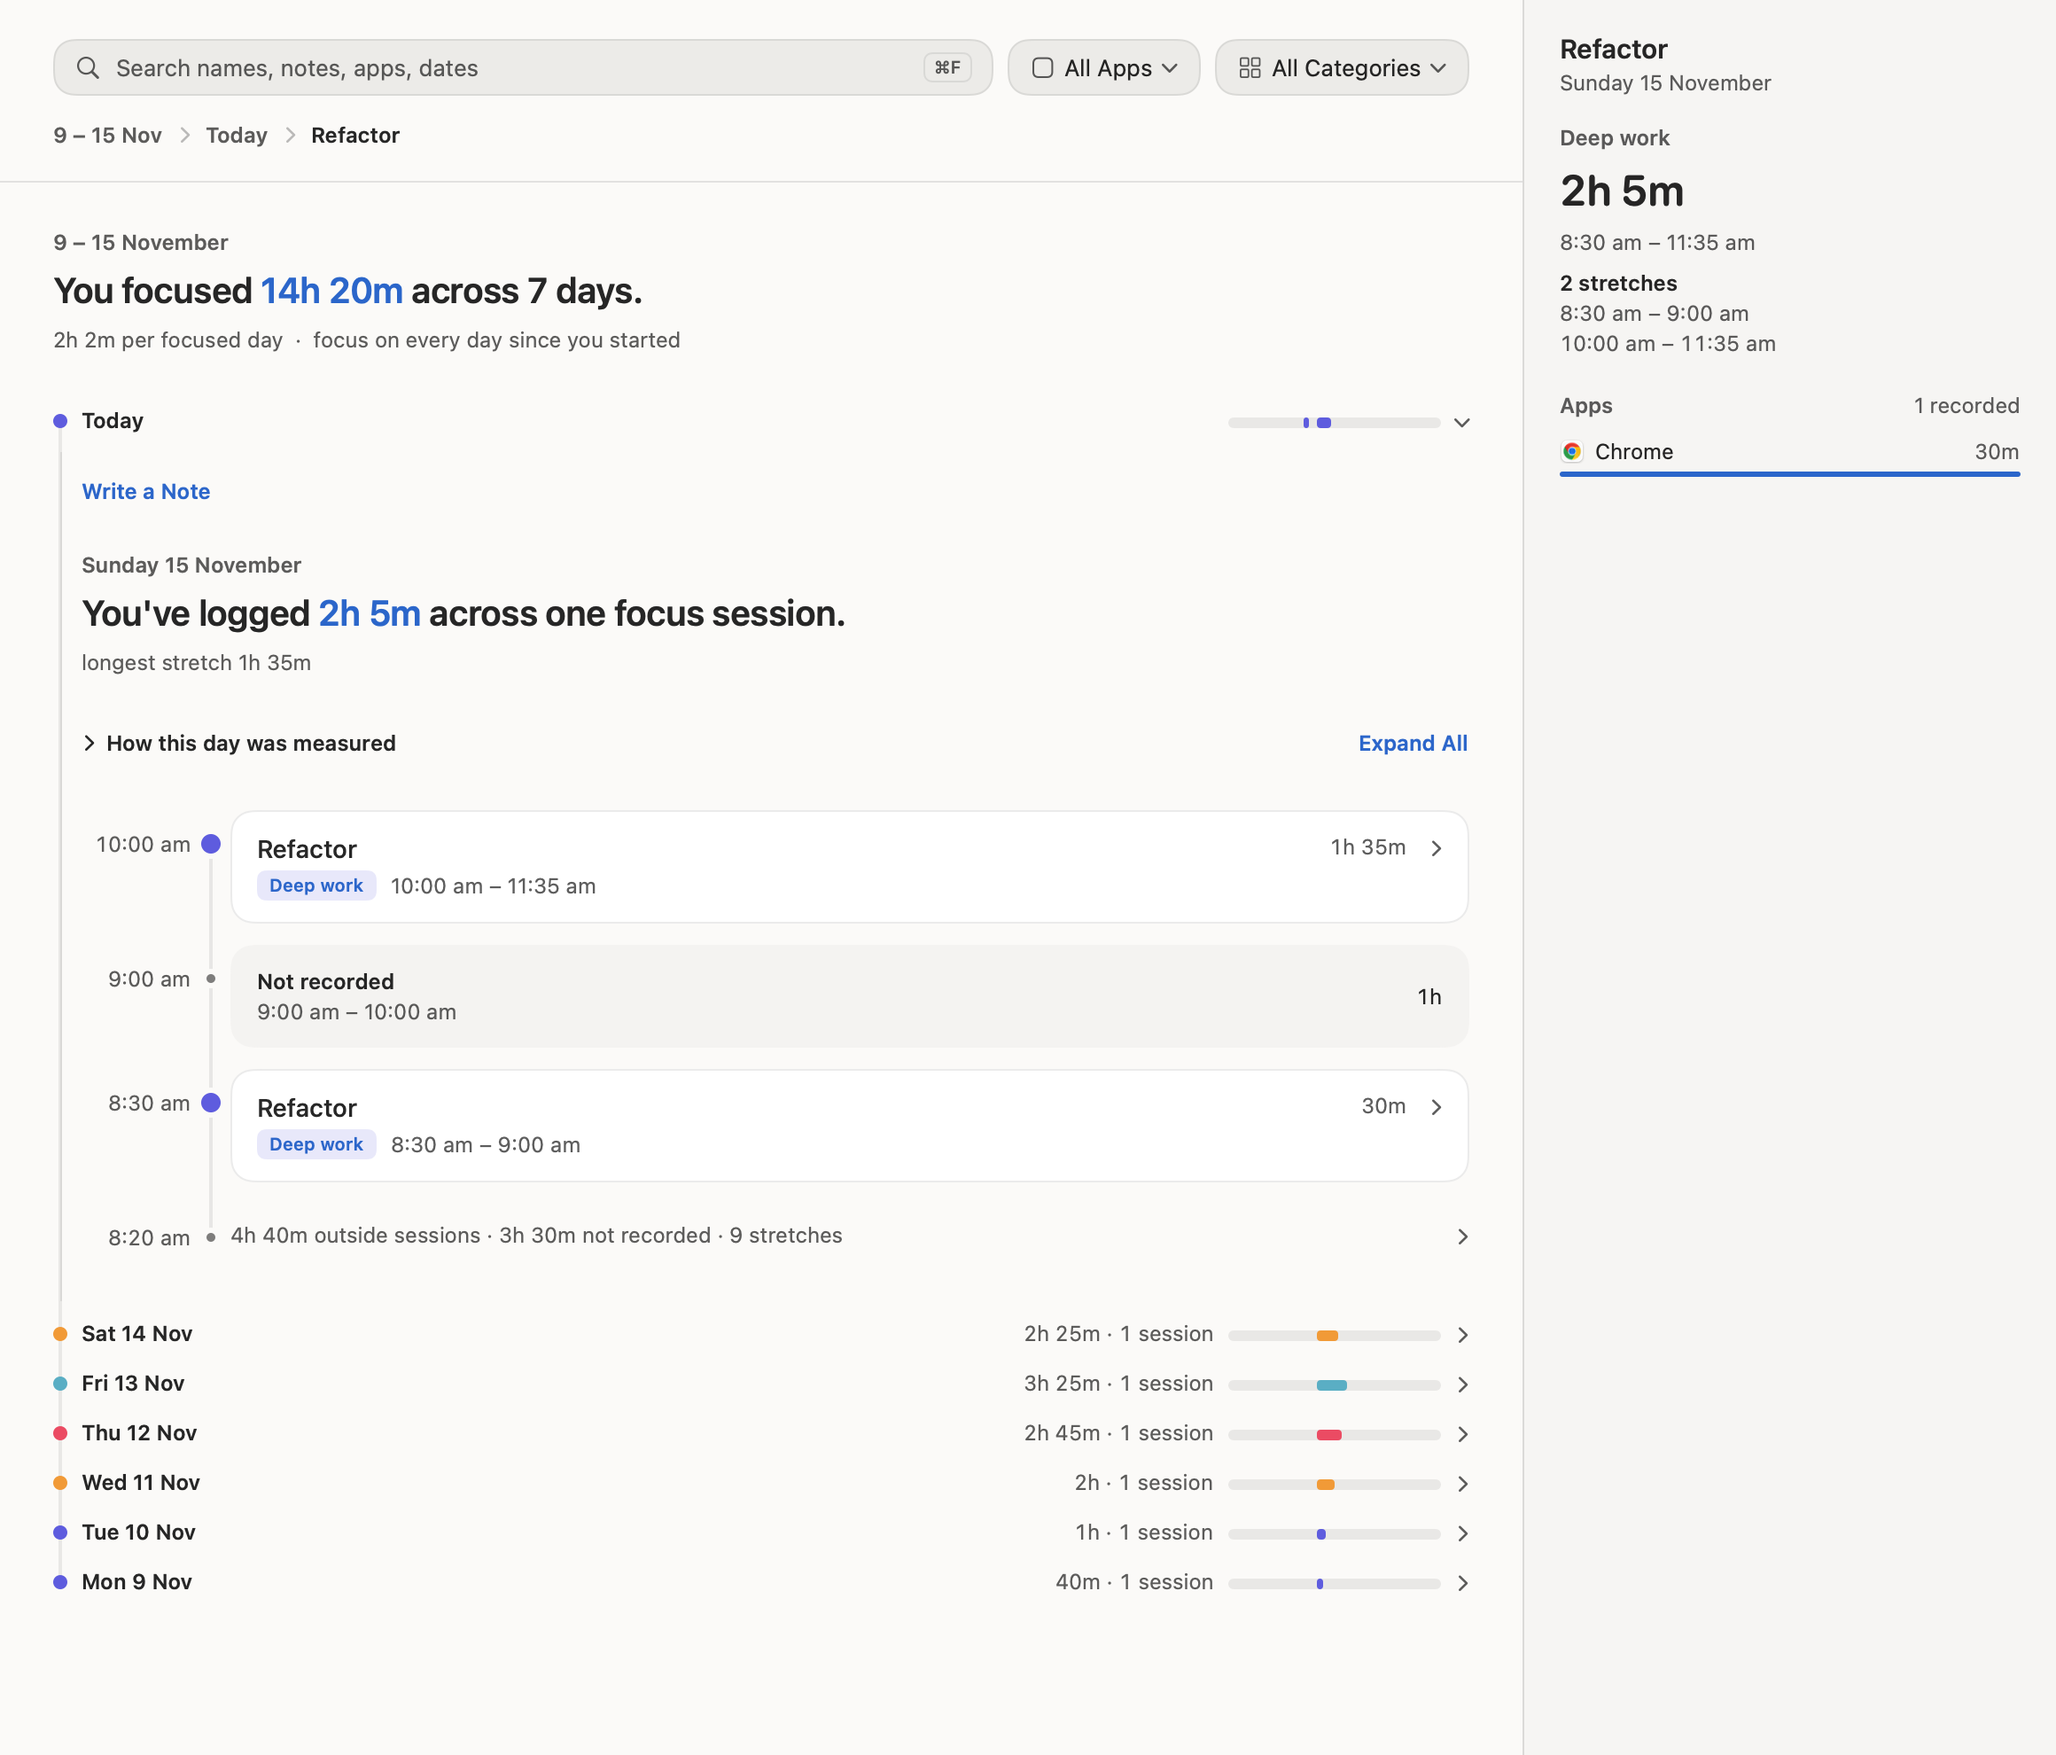
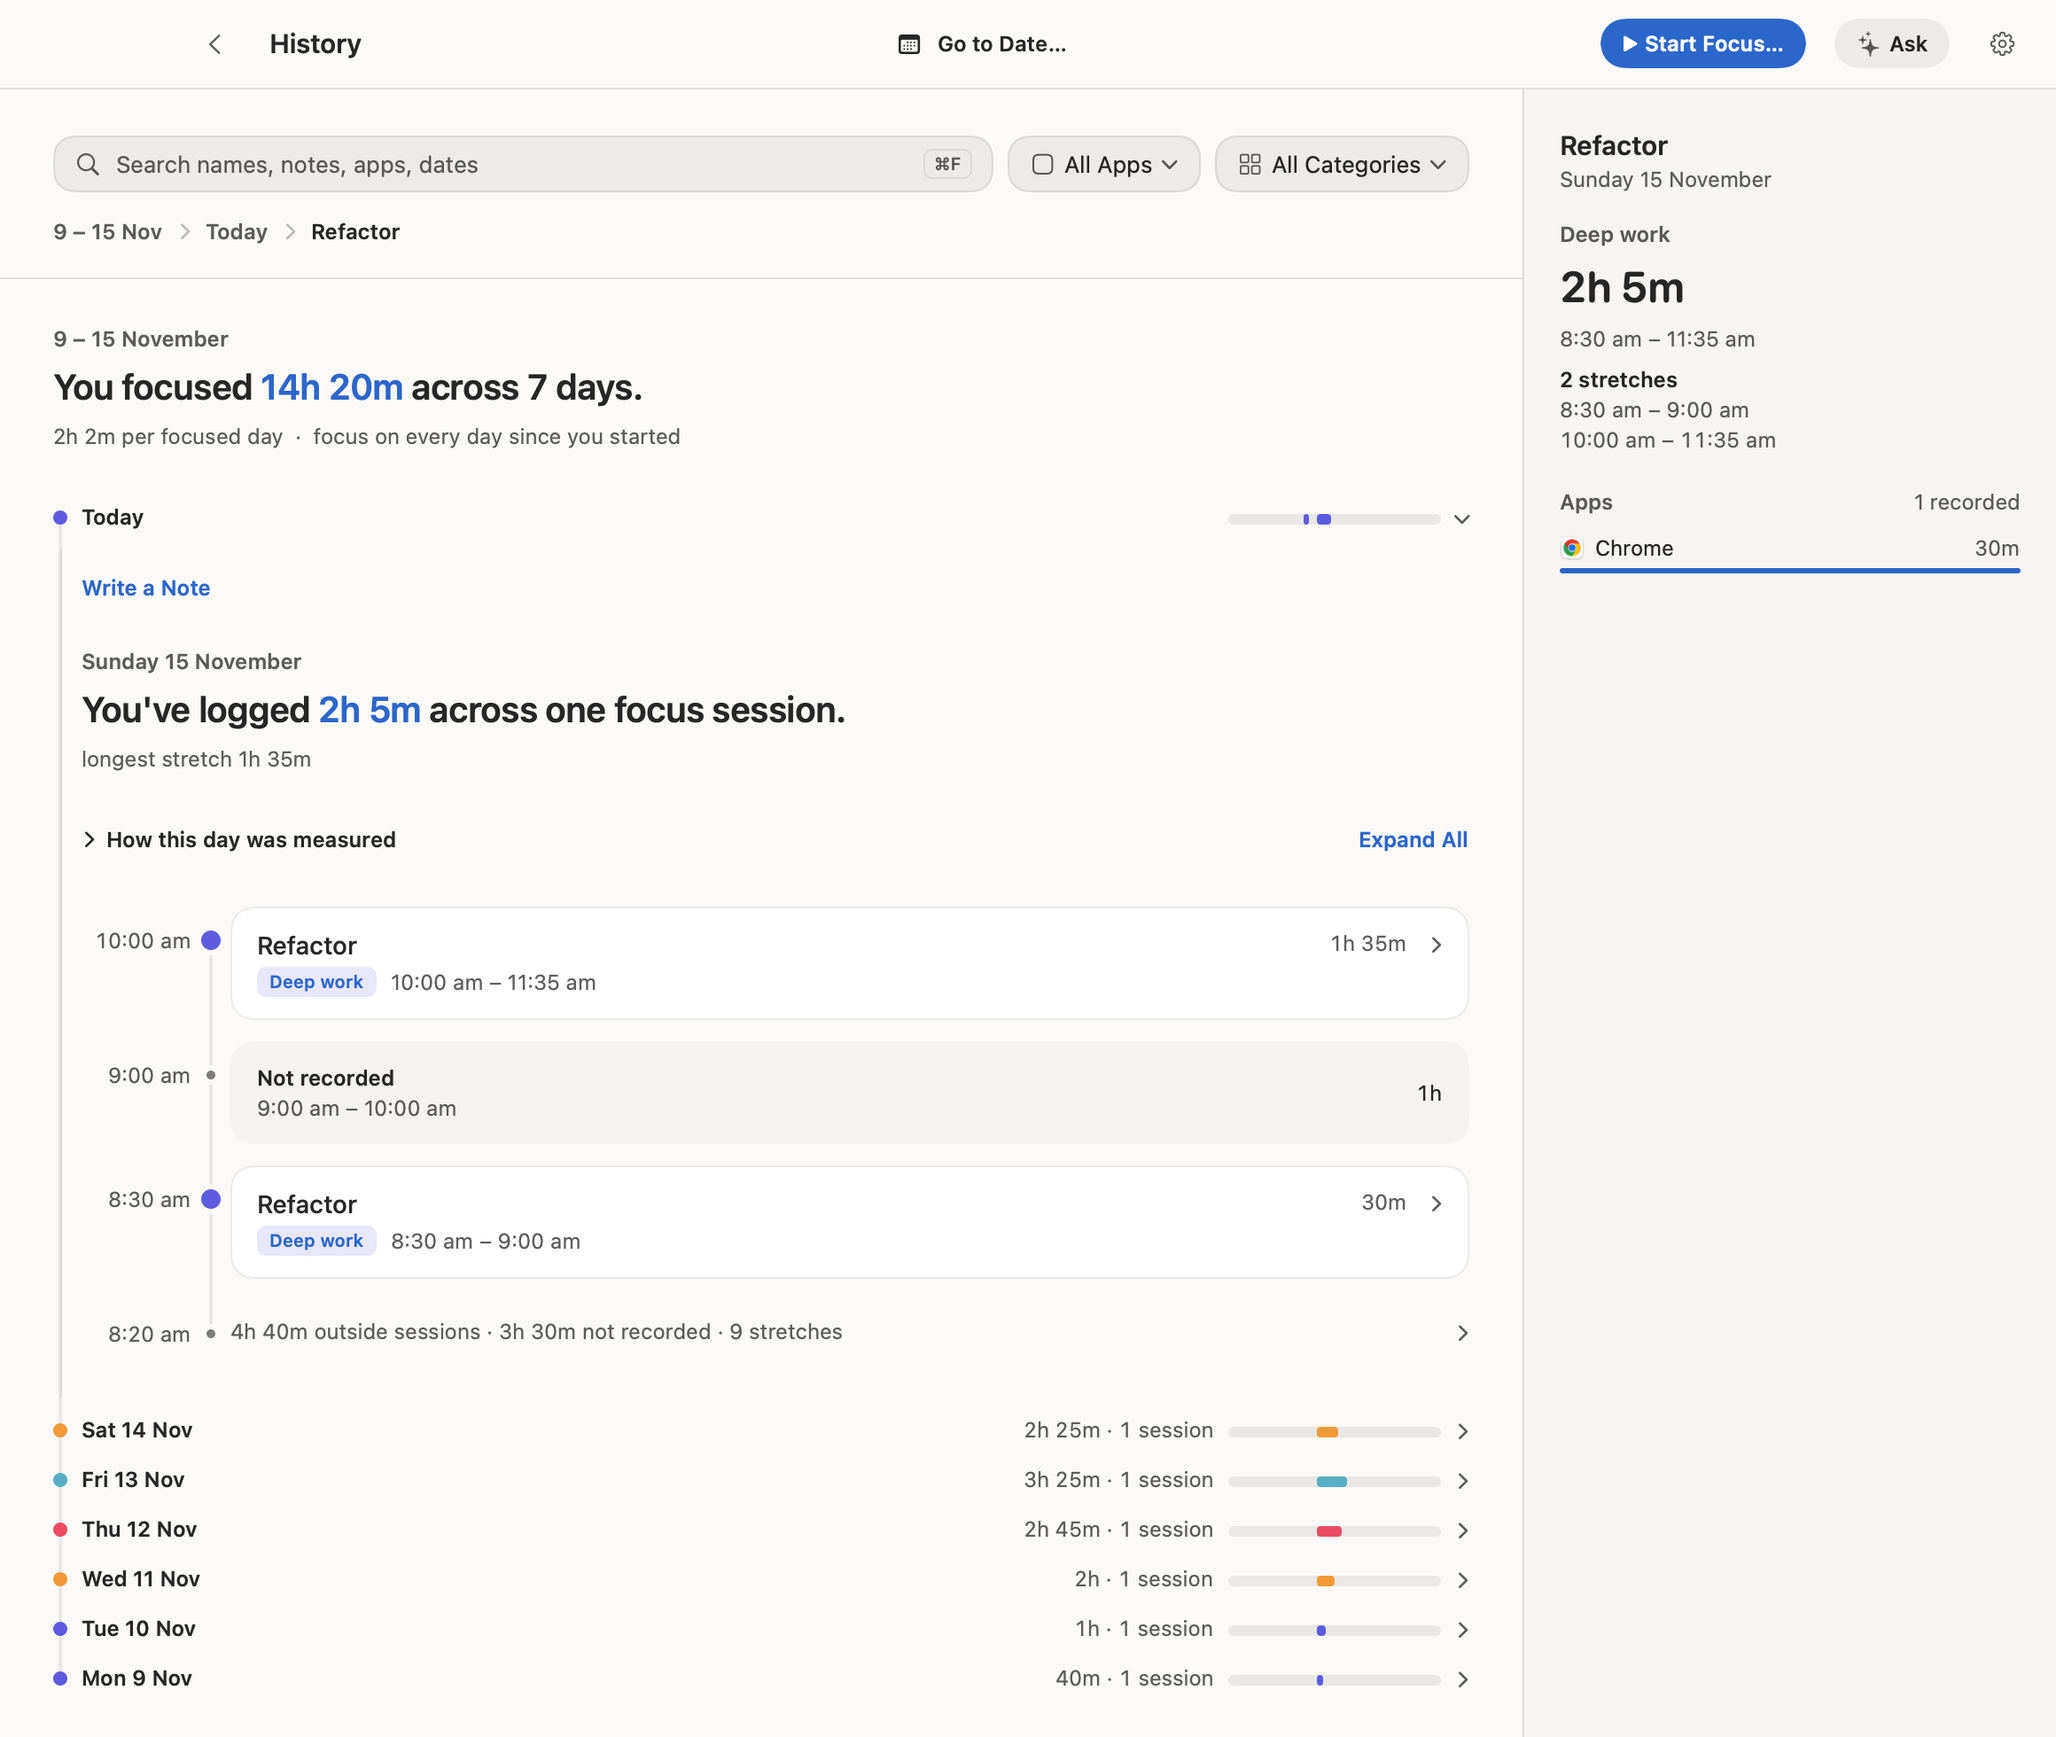
The README's first image shows the whole day and its away claim is exact
The day's story and the three History screenshots were cropped from the
middle of their renders, cutting off the window's top bar and part of the
headline. They are now cropped from the top edge.

The away bullet and the manual timer row now say what the app does: a short
absence is left out, a longer one is asked about on return, and one past the
set limit ends the session where it began, with none of it counted as focus
unless you say it was work.

diff --git a/README.md b/README.md
@@ -17,7 +17,7 @@ trade, and Daybook makes a different one.
 
 | Kind of app | What that approach gives up | What Daybook does instead |
 |---|---|---|
-| A manual start and stop timer | It counts everything between start and stop. A lunch with the timer left running becomes an hour of work unless you remember to fix it. | You still start sessions yourself, but after a quiet spell with no keyboard, mouse or trackpad, the session pauses from your last touch. When you come back, Daybook asks how that time should count: a break, work, or time left out. |
+| A manual start and stop timer | It counts everything between start and stop. A lunch with the timer left running becomes an hour of work unless you remember to fix it. | You still start sessions yourself, but after a quiet spell with no keyboard, mouse or trackpad, the session pauses from your last touch. A short absence is left out; after a longer one, Daybook asks when you come back whether it was a break, work, or time to leave out. |
 | An automatic tracker that logs every app | It records everything and leaves the sorting to you, and an app being in front is taken as you working in it. | Daybook records app use too, but keeps it apart from the sessions you declare and never adds the two together. A session's figures come from what was recorded, and the day reads as a story, not a table. |
 | A cloud time tracker built for teams and billing | Your record lives in an account on someone else's servers, organised around projects, clients and invoices. | There is no account and no server. The record is kept on your Mac, and on-device AI answers questions about it without sending anything away. Daybook is for one person on one Mac: it has no team, invoicing or sync features. |
 
@@ -26,8 +26,10 @@ Behind those choices is one rule: evidence comes before interpretation.
 - **Declared and observed time stay separate.** A focus session is something
   you start. App use is something the Mac saw. Each is named on screen, and
   neither is passed off as the other.
-- **Time away is asked about or left out, never counted silently.** Locking
-  the screen, sleep and long quiet spells all end in a question you answer.
+- **Time away is asked about or left out, never counted silently.** A short
+  absence is left out without a question, a longer one is asked about when you
+  come back, and one past the limit you set ends the session at the moment you
+  left. None of it counts as focus unless you say it was work.
 - **Daybook says what it could not measure.** Where nothing was recorded, the
   story says so. Session time the Mac could not confirm is shown on its own
   line, and older records from before a recording fix are marked as less
